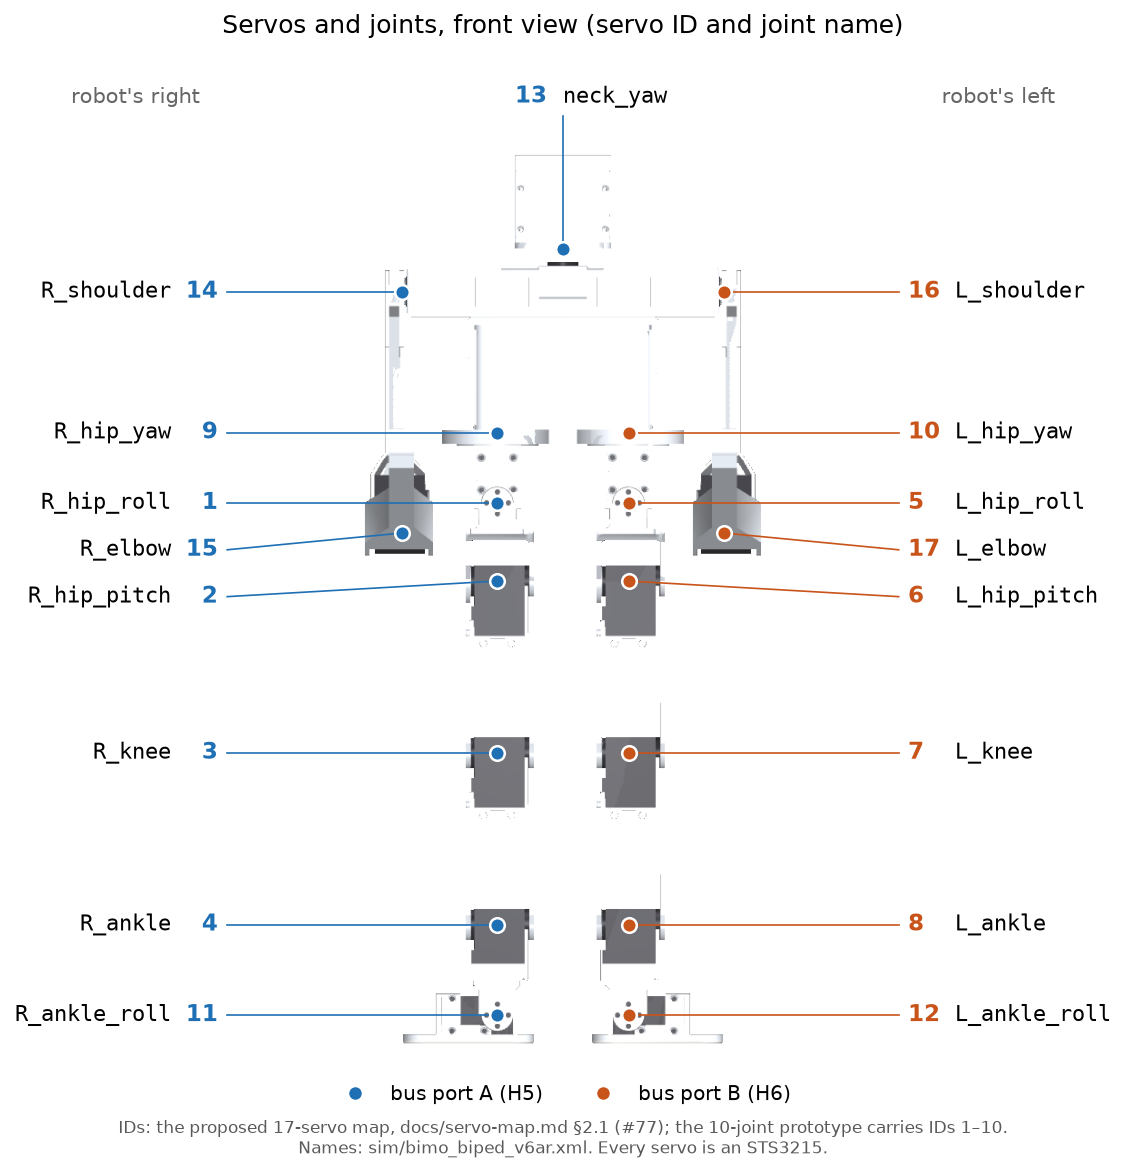
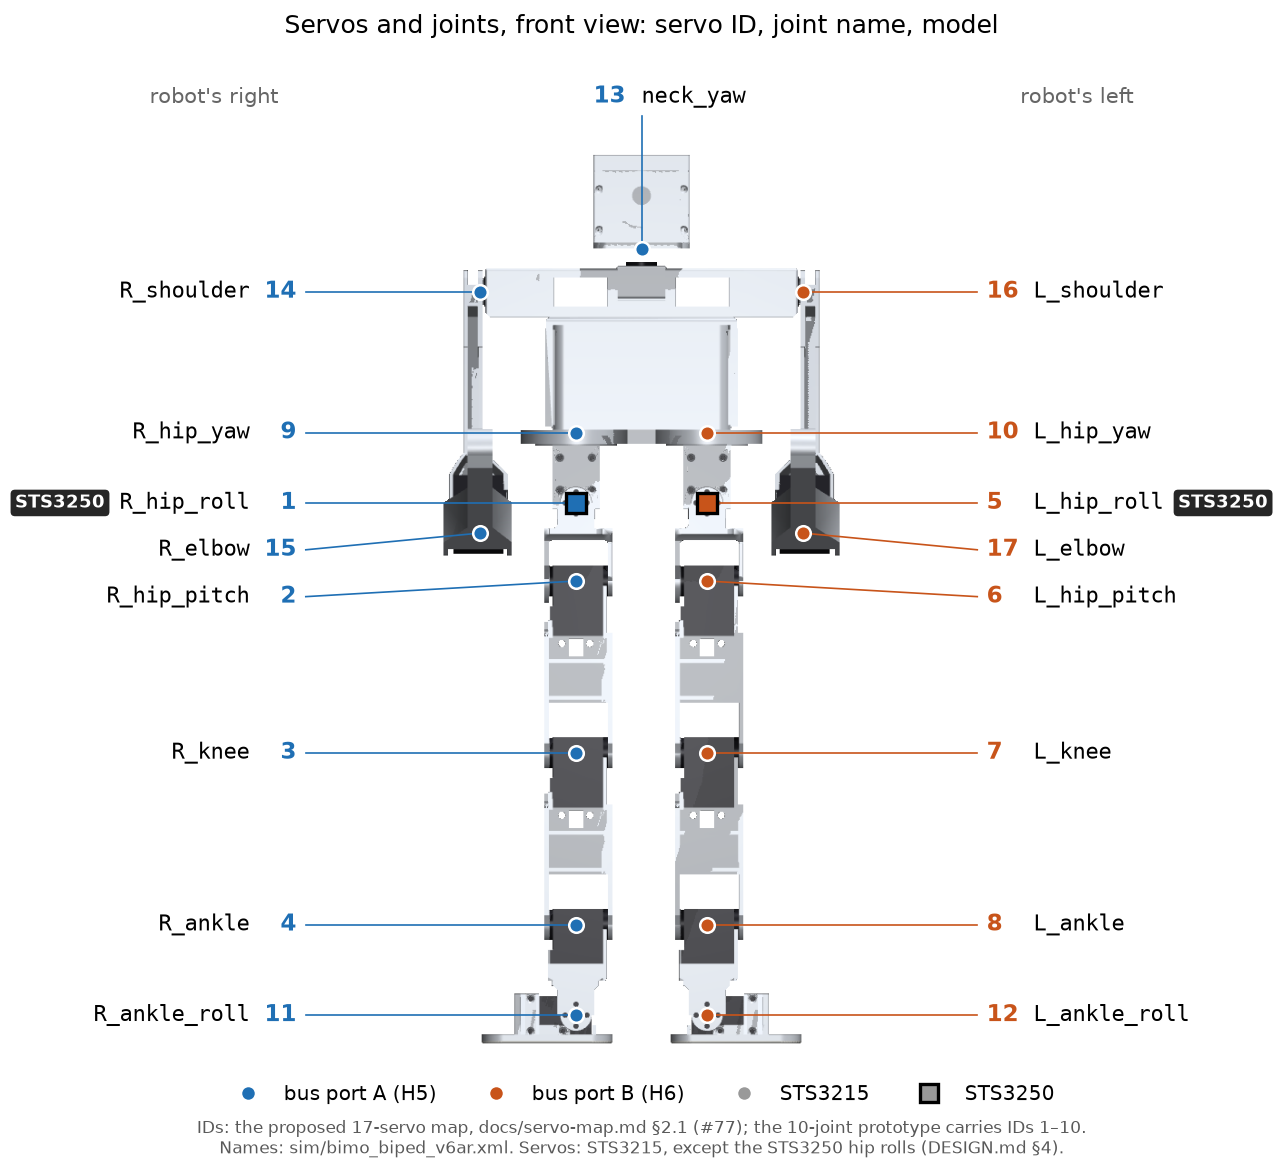
servo-map: mark the STS3250 hip rolls; a darker render
The diagram marks SERVO_3250_JOINTS (cad/v6/dimensions_v6.py) with square
markers and an STS3250 tag, and renders under a dimmer headlight so the white
prints keep their shading. servo-map.md said every joint is an STS3215; the
hip rolls are STS3250s (DESIGN.md §4).

diff --git a/tools/servo_map_figure.py b/tools/servo_map_figure.py
@@ -6,8 +6,10 @@ Run:  MUJOCO_GL=cgl .venv/bin/python tools/servo_map_figure.py   (or `make figur
 A front view of the v6 plant (sim/bimo_biped_v6ar.xml) at its zero pose, with
 a marker at each joint's anchor. The names and IDs come from
 link/protocol.py's JOINT_NAMES (servo ID = index + 1), the bus joint set of
-docs/servo-map.md section 2.1. Writes build/v6/renders/servo_map.png; `make
-figures` copies it to docs/img/servo_map.png.
+docs/servo-map.md section 2.1; the STS3250 joints (square markers) from
+cad/v6/dimensions_v6.py SERVO_3250_JOINTS. Writes
+build/v6/renders/servo_map.png; `make figures` copies it to
+docs/img/servo_map.png.
 """
 import os
 import sys
@@ -22,6 +24,8 @@ import numpy as np
 
 ROOT = os.path.dirname(os.path.dirname(os.path.abspath(__file__)))
 sys.path.insert(0, ROOT)
+sys.path.insert(0, os.path.join(ROOT, "cad", "v6"))
+import dimensions_v6 as V
 from link.protocol import JOINT_NAMES
 from paths import build_dir
 
@@ -32,6 +36,7 @@ LOOKAT_Z = 0.29
 PX_H, PX_W = 1100, 700
 LABEL_X = 0.215                     # m, label columns at +-LABEL_X
 MIN_GAP = 0.03                      # m, between label rows
+HEADLIGHT = (0.18, 0.42)            # ambient, diffuse: dimmer than the plant's, so the white prints keep their shading
 
 
 def port(name):
@@ -39,10 +44,16 @@ def port(name):
     return "A" if name.startswith("R_") or name == "neck_yaw" else "B"
 
 
+def is_3250(name):
+    return name.split("_", 1)[1] in V.SERVO_3250_JOINTS
+
+
 def render(m, d):
     """Front view, orthographic, background white. Returns (rgb, extent in metres)."""
     m.vis.global_.orthographic = 1
     m.vis.global_.fovy = VIEW_H
+    m.vis.headlight.ambient[:] = HEADLIGHT[0]
+    m.vis.headlight.diffuse[:] = HEADLIGHT[1]
     cam = mujoco.MjvCamera()
     cam.lookat[:] = (0.0, 0.0, LOOKAT_Z)
     cam.distance, cam.azimuth, cam.elevation = 1.5, 180.0, 0.0
@@ -83,7 +94,7 @@ def main():
         joints.append((i + 1, name, y, z))
 
     fig, ax = plt.subplots(figsize=(9, 9.2), dpi=150)
-    ax.imshow(rgb, extent=ext, alpha=0.9, zorder=0)
+    ax.imshow(rgb, extent=ext, zorder=0)
     for side, sign in (("right", -1), ("left", 1)):
         col = [jt for jt in joints if jt[1] != "neck_yaw" and (jt[2] < 0) == (sign < 0)]
         for (sid, name, y, z), lz in zip(col, spread([jt[3] for jt in col])):
@@ -92,25 +103,37 @@ def main():
             ax.plot([y, lx], [z, lz], color=c, lw=0.8, zorder=1)
             ax.text(lx + sign * 0.006, lz, f"{sid}", color=c, fontsize=11, fontweight="bold",
                     ha="left" if sign > 0 else "right", va="center")
-            ax.text(lx + sign * 0.036, lz, name, fontsize=10.5, family="monospace",
-                    ha="left" if sign > 0 else "right", va="center")
+            t = ax.text(lx + sign * 0.036, lz, name, fontsize=10.5, family="monospace",
+                        ha="left" if sign > 0 else "right", va="center")
+            if is_3250(name):
+                ax.annotate("STS3250", xy=(1 if sign > 0 else 0, 0.5), xycoords=t,
+                            xytext=(sign * 7, 0), textcoords="offset points",
+                            ha="left" if sign > 0 else "right", va="center", fontsize=8.5,
+                            fontweight="bold", color="white",
+                            bbox=dict(boxstyle="round,pad=0.25", fc="0.15", ec="none"))
     sid, name, y, z = next(jt for jt in joints if jt[1] == "neck_yaw")
     c = PORT_COLOR[port(name)]
     ax.plot([y, y], [z, top + 0.025], color=c, lw=0.8, zorder=1)
     ax.text(y, top + 0.03, f"{sid}  ", color=c, fontsize=11, fontweight="bold", ha="right", va="bottom")
     ax.text(y, top + 0.03, name, fontsize=10.5, family="monospace", ha="left", va="bottom")
     for sid, name, y, z in joints:
-        ax.plot(y, z, "o", ms=7, mfc=PORT_COLOR[port(name)], mec="white", mew=1.2, zorder=2)
+        if is_3250(name):
+            ax.plot(y, z, "s", ms=10, mfc=PORT_COLOR[port(name)], mec="black", mew=1.6, zorder=2)
+        else:
+            ax.plot(y, z, "o", ms=7, mfc=PORT_COLOR[port(name)], mec="white", mew=1.2, zorder=2)
 
     for p, c in PORT_COLOR.items():
         ax.plot([], [], "o", ms=7, mfc=c, mec="white", label=f"bus port {p} ({'H5' if p == 'A' else 'H6'})")
-    ax.legend(loc="upper center", bbox_to_anchor=(0.5, 0.0), ncol=2, frameon=False, fontsize=9.5)
+    ax.plot([], [], "o", ms=7, mfc="0.6", mec="white", label="STS3215")
+    ax.plot([], [], "s", ms=9, mfc="0.6", mec="black", mew=1.6, label="STS3250")
+    ax.legend(loc="upper center", bbox_to_anchor=(0.5, 0.0), ncol=4, frameon=False, fontsize=9.5)
     ax.text(-LABEL_X - 0.1, top + 0.03, "robot's right", fontsize=10, color="0.4", va="bottom")
     ax.text(LABEL_X + 0.1, top + 0.03, "robot's left", fontsize=10, color="0.4", va="bottom", ha="right")
-    ax.set_title("Servos and joints, front view (servo ID and joint name)", fontsize=12)
+    ax.set_title("Servos and joints, front view: servo ID, joint name, model", fontsize=12)
     ax.text(0.5, -0.05,
              "IDs: the proposed 17-servo map, docs/servo-map.md §2.1 (#77); the 10-joint prototype "
-             "carries IDs 1–10.\nNames: sim/bimo_biped_v6ar.xml. Every servo is an STS3215.",
+             "carries IDs 1–10.\nNames: sim/bimo_biped_v6ar.xml. Servos: STS3215, except the STS3250 "
+             "hip rolls (DESIGN.md §4).",
              transform=ax.transAxes, ha="center", va="top", fontsize=8, color="0.35")
     ax.set_xlim(-LABEL_X - 0.12, LABEL_X + 0.12)
     ax.set_ylim(ext[2] + 0.015, top + 0.07)

diff --git a/docs/servo-map.md b/docs/servo-map.md
@@ -1,7 +1,8 @@
 # Servo reference
 
-Every joint on the robot is a Feetech **STS3215**: the 12 V class, part number
-ST-3215-C018. All of them sit on one half-duplex TTL bus at 1 Mbaud off the General
+Every joint on the robot is a Feetech **STS3215** (the 12 V class, part number
+ST-3215-C018) except the two hip rolls, IDs 1 and 5, which are **STS3250s**:
+same case, horn and connector ([DESIGN.md §4](../DESIGN.md)). All of them sit on one half-duplex TTL bus at 1 Mbaud off the General
 Driver board ([wiring.md](wiring.md#servo-bus)).
 
 This page covers:
